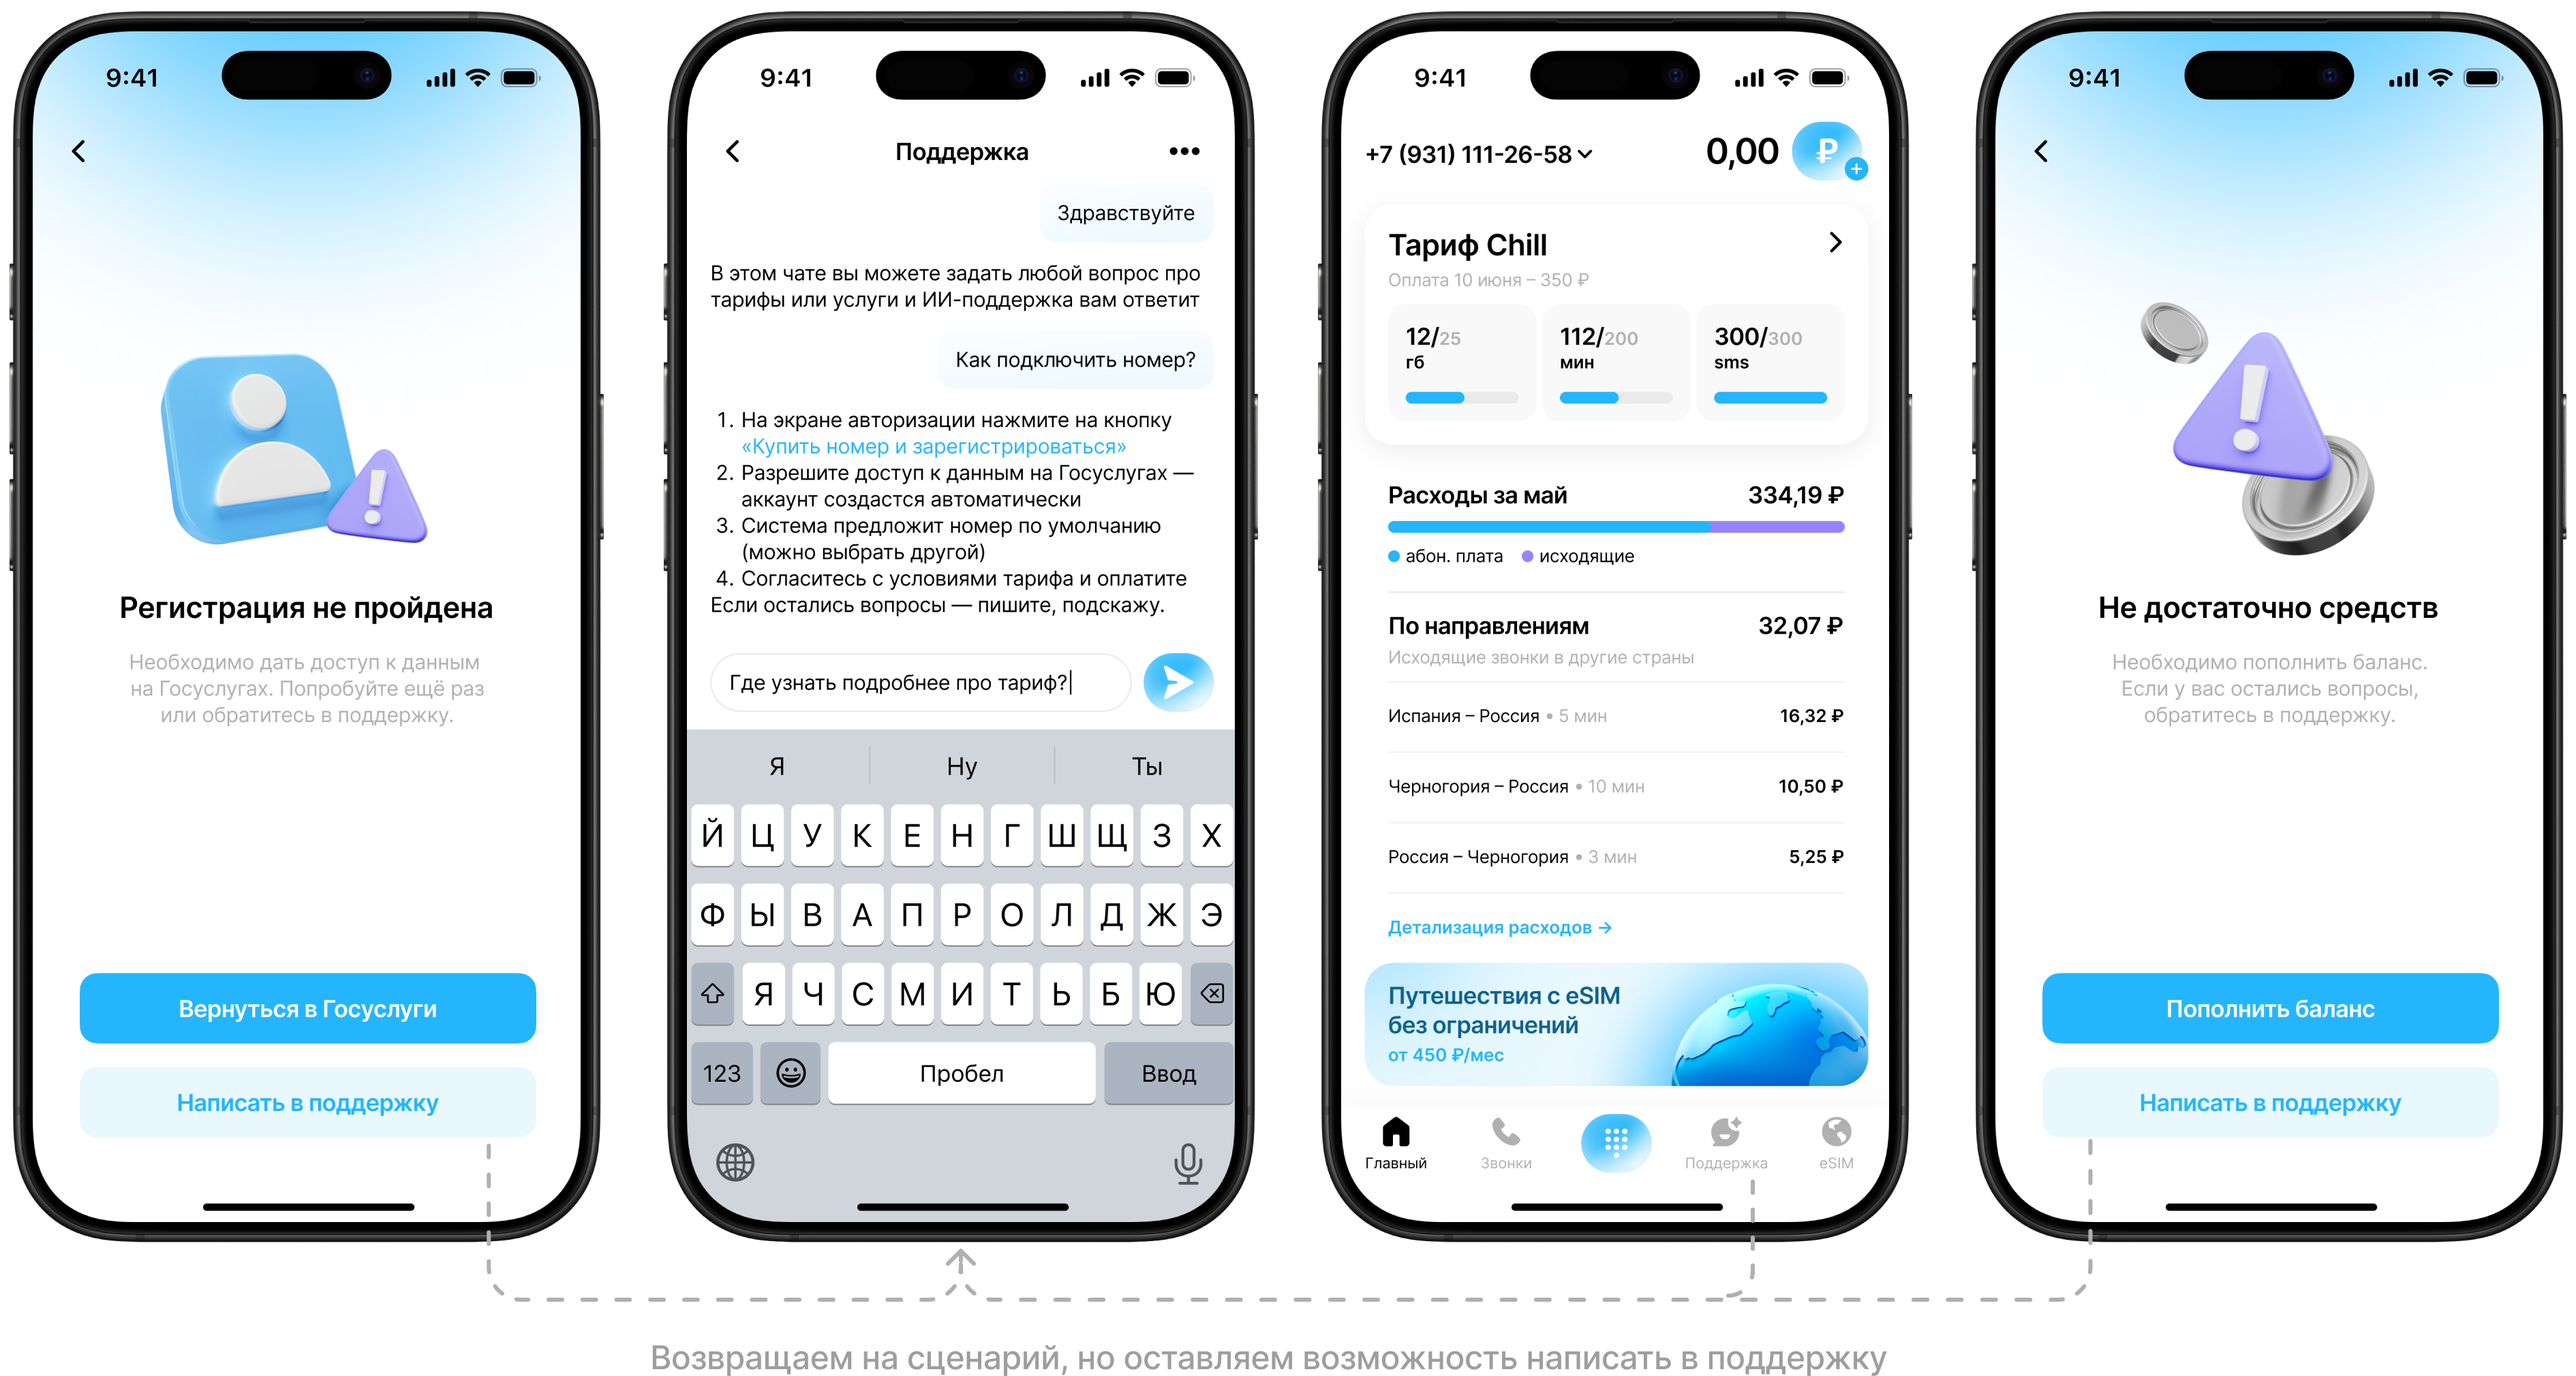
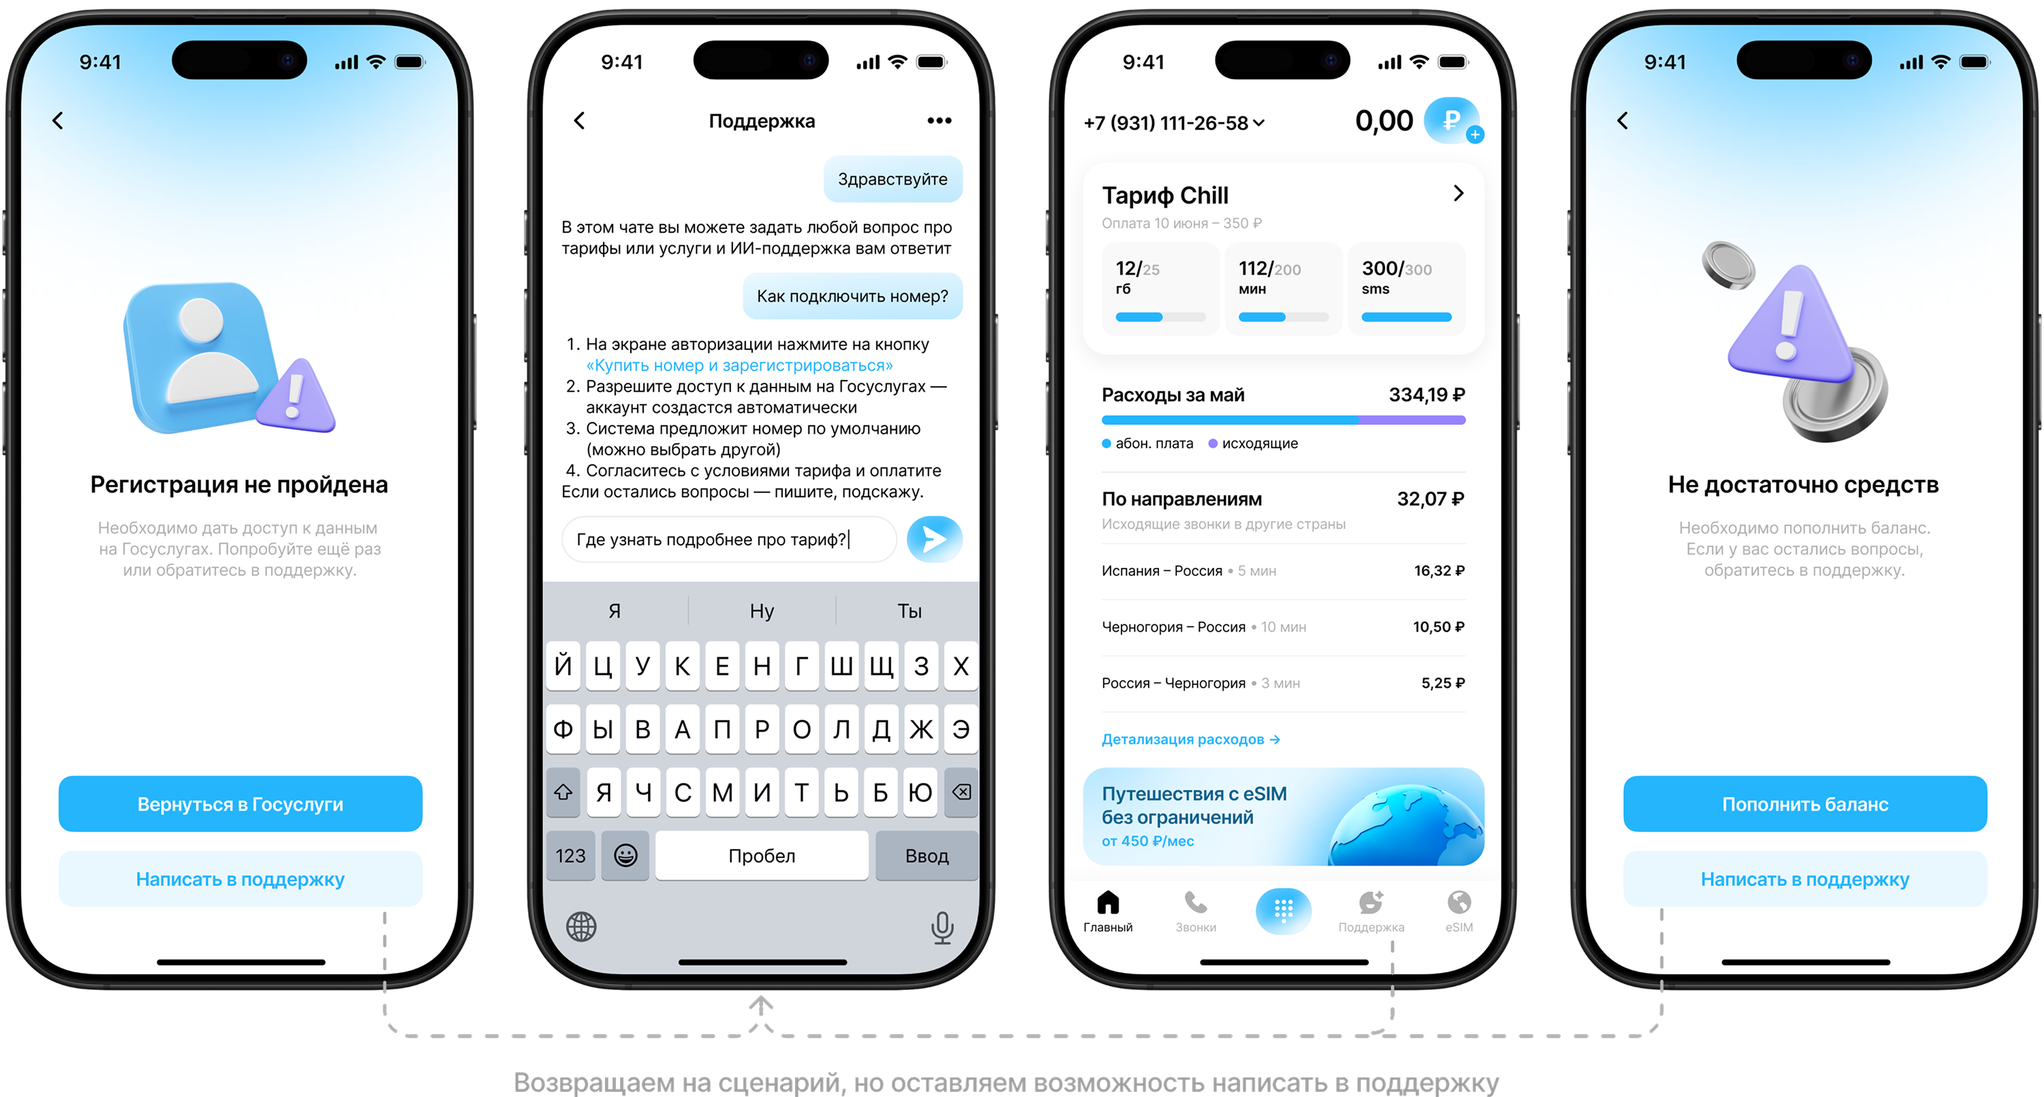
Update result metric arrows

diff --git a/src/components/case-study-page.tsx b/src/components/case-study-page.tsx
@@ -939,7 +939,9 @@ export function CaseStudyPage() {
               <div className="flex min-h-[94px] flex-col items-start gap-2 rounded-[12px] bg-[#262626] px-4 py-3 lg:w-[184px]">
                 <div className="flex h-10 items-start gap-1 whitespace-nowrap text-white">
                   <span className="inline-flex h-10 items-center text-[32px] font-semibold leading-none">8</span>
-                  <span className="inline-flex h-10 items-center text-[18px] font-bold leading-none">→</span>
+                  <span className="inline-flex h-10 items-center">
+                    <Image alt="" src={assets.arrowForward} width={16} height={16} className="h-4 w-4" />
+                  </span>
                   <span className="inline-flex h-10 items-center text-[32px] font-semibold leading-none">3</span>
                 </div>
                 <p className="whitespace-nowrap text-[14px] leading-[160%] text-[#c0c0c0]">
@@ -959,7 +961,9 @@ export function CaseStudyPage() {
               <div className="flex min-h-[94px] flex-col items-start gap-2 rounded-[12px] bg-[#262626] px-4 py-3 lg:w-[184px]">
                 <div className="flex h-10 items-start gap-1 whitespace-nowrap text-white">
                   <span className="inline-flex h-10 items-center text-[32px] font-semibold leading-none">15</span>
-                  <span className="inline-flex h-10 items-center text-[18px] font-bold leading-none">→</span>
+                  <span className="inline-flex h-10 items-center">
+                    <Image alt="" src={assets.arrowForward} width={16} height={16} className="h-4 w-4" />
+                  </span>
                   <span className="inline-flex h-10 items-center text-[32px] font-semibold leading-none">22</span>
                   <span className="inline-flex h-10 items-end pb-[5px] text-[18px] font-bold leading-none">%</span>
                 </div>
@@ -970,7 +974,9 @@ export function CaseStudyPage() {
               <div className="flex min-h-[94px] flex-col items-start gap-2 rounded-[12px] bg-[#262626] px-4 py-3 lg:w-[184px]">
                 <div className="flex h-10 items-start gap-1 whitespace-nowrap text-white">
                   <span className="inline-flex h-10 items-center text-[32px] font-semibold leading-none">40</span>
-                  <span className="inline-flex h-10 items-center text-[18px] font-bold leading-none">→</span>
+                  <span className="inline-flex h-10 items-center">
+                    <Image alt="" src={assets.arrowForward} width={16} height={16} className="h-4 w-4" />
+                  </span>
                   <span className="inline-flex h-10 items-center text-[32px] font-semibold leading-none">18</span>
                   <span className="inline-flex h-10 items-end pb-[5px] text-[18px] font-bold leading-none">%</span>
                 </div>

diff --git a/src/components/work-case-page.tsx b/src/components/work-case-page.tsx
@@ -820,7 +820,9 @@ export function WorkCasePage() {
               <div className="flex min-h-[94px] flex-col items-start gap-2 rounded-[12px] bg-[#262626] px-4 py-3 lg:w-[184px]">
                 <div className="flex h-10 items-start gap-1 whitespace-nowrap text-white">
                   <span className="inline-flex h-10 items-center text-[32px] font-semibold leading-none">33</span>
-                  <span className="inline-flex h-10 items-center text-[18px] font-bold leading-none">→</span>
+                  <span className="inline-flex h-10 items-center">
+                    <Image alt="" src={assets.arrowForward} width={16} height={16} className="h-4 w-4" />
+                  </span>
                   <span className="inline-flex h-10 items-center text-[32px] font-semibold leading-none">19</span>
                 </div>
                 <p className="whitespace-nowrap text-[14px] leading-[160%] text-[#c0c0c0]">
